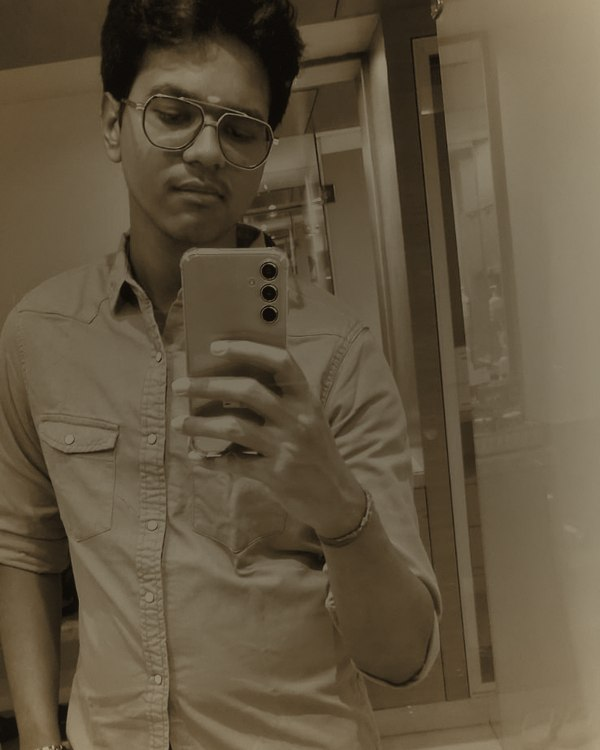
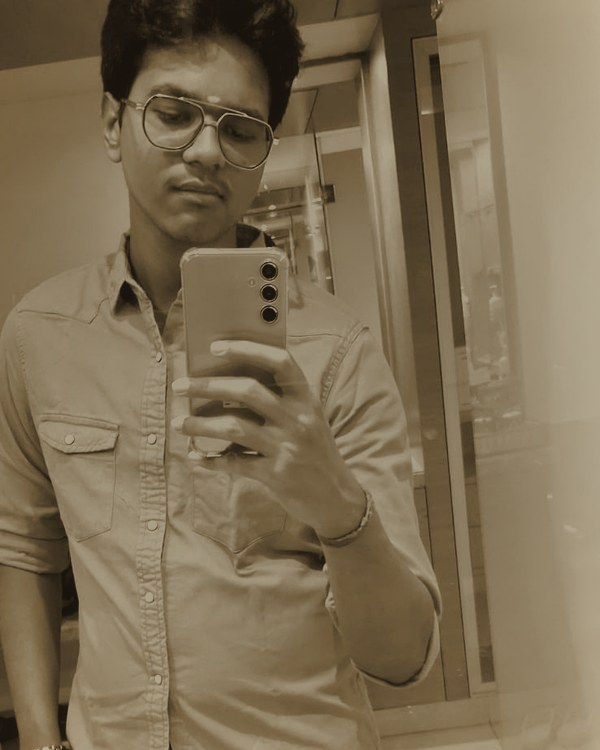
Brighten portrait: lifted blacks, lighter grain, gentler vignette
Face luminance up 32% (mean 71 -> 94) while keeping the sepia duotone;
grain halved and vignette softened so the face reads clearly at card
sizes. Dropped the CSS brightness damping to match.

🤖 Generated with Codebuff

diff --git a/css/style.css b/css/style.css
@@ -511,7 +511,7 @@ body.nav-open .nav-links a {
   width: 100%;
   height: auto;
   /* a second, living sepia pass on top of the baked-in one */
-  filter: sepia(0.25) contrast(1.04) brightness(0.97);
+  filter: sepia(0.18) contrast(1.02);
 }
 
 .portrait-caption {
